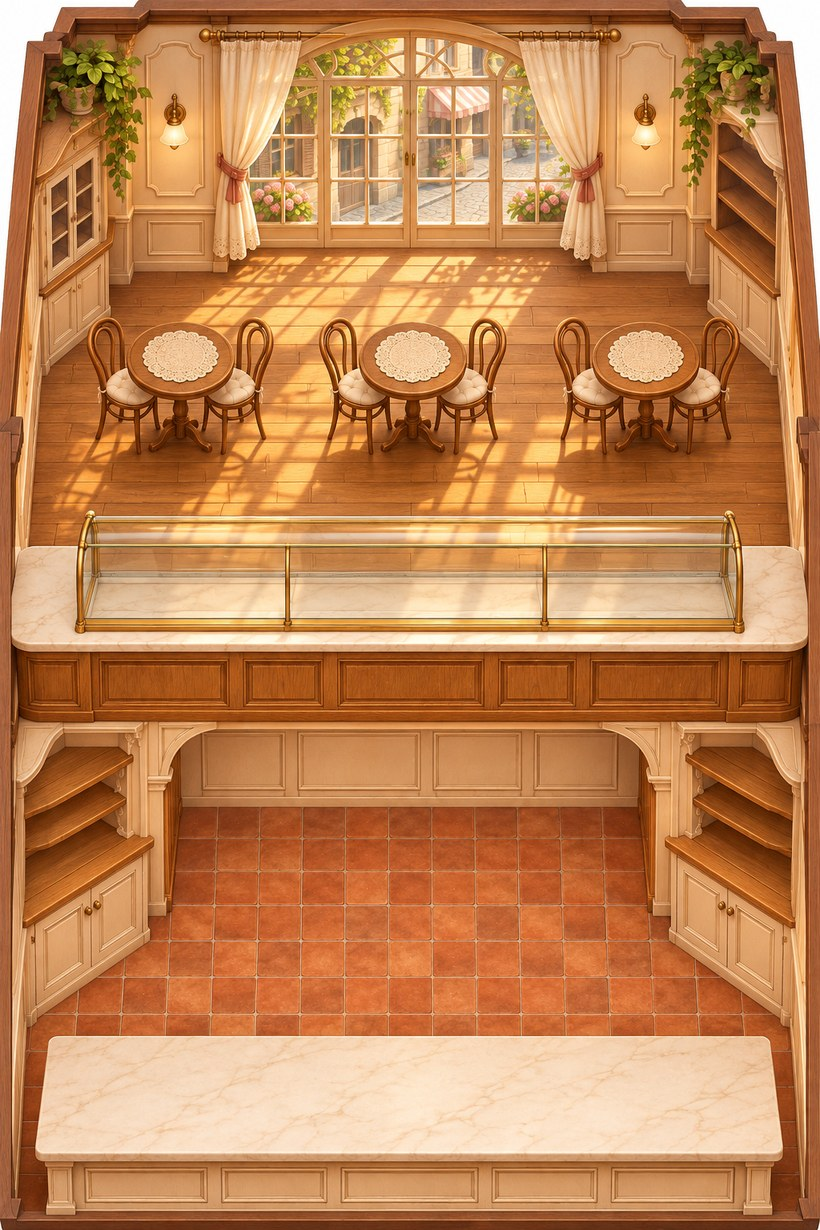
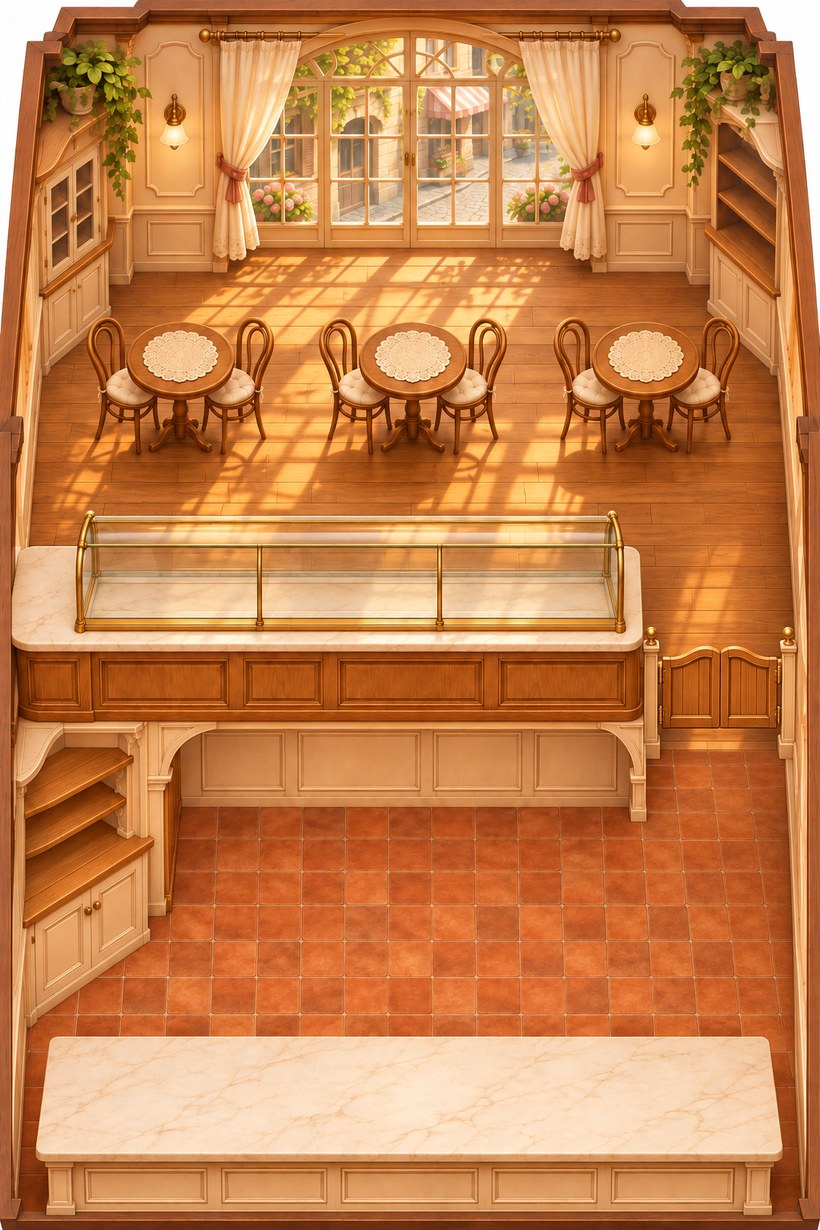
feat(patisserie-story): add wooden right-side counter swing-gate and multi-segment doorway pathfinding for Coco

diff --git a/games/patisserie-story/src/pages/shop.js b/games/patisserie-story/src/pages/shop.js
@@ -86,19 +86,23 @@ export function mountShopPage(root) {
   let handsSig = '';
   let pauseSig = '';
 
-  // 2.5D 可可地板走位状态（在陶砖过道与餐区/展示柜/大理石烤台间移动）
+  // 2.5D 可可多段寻路走位状态（跨区必须经由右侧柜台小门进出，绝不穿墙/穿玻璃柜！）
   let cocoPos = { x: 50, y: 69, facing: 1 };
   let cocoWalkTimer = null;
+  let cocoPathRunId = 0;
+
+  const GATE_SOUTH = { x: 87.5, y: 64 };
+  const GATE_NORTH = { x: 87.5, y: 40 };
 
   const COCO_WAYPOINTS = {
-    seat_0: { x: 24, y: 39 },
-    seat_1: { x: 50, y: 39 },
-    seat_2: { x: 76, y: 39 },
-    disp_0: { x: 25, y: 63 },
-    disp_1: { x: 50, y: 63 },
-    disp_2: { x: 75, y: 63 },
-    oven_1: { x: 26, y: 74 },
-    oven_2: { x: 74, y: 74 },
+    seat_0: { x: 24, y: 38 },
+    seat_1: { x: 50, y: 38 },
+    seat_2: { x: 74, y: 38 },
+    disp_0: { x: 21, y: 63 },
+    disp_1: { x: 44, y: 63 },
+    disp_2: { x: 67, y: 63 },
+    oven_1: { x: 24, y: 74 },
+    oven_2: { x: 76, y: 74 },
     batch:  { x: 50, y: 74 }
   };
 
@@ -119,34 +123,62 @@ export function mountShopPage(root) {
     const scene = root.querySelector('.kitchen-scene');
     if (!wp || !actor) return;
 
-    const prevX = cocoPos.x;
-    const prevY = cocoPos.y;
-    const dx = wp.x - prevX;
-    const dy = wp.y - prevY;
-    const dist = Math.hypot(dx, dy);
-    const moved = dist > 2;
-    if (Math.abs(dx) > 1.5) cocoPos.facing = dx < 0 ? -1 : 1;
-    cocoPos.x = wp.x;
-    cocoPos.y = wp.y;
+    // 取消上一段未走完的路径，从当前视觉坐标无缝起新路径
+    cocoPathRunId += 1;
+    const runId = cocoPathRunId;
+    clearTimeout(cocoWalkTimer);
 
-    const walkMs = moved ? Math.max(260, Math.min(620, Math.round(dist * 11))) : 0;
-    actor.style.transitionDuration = `${walkMs}ms`;
-    actor.style.left = `${wp.x}%`;
-    actor.style.top = `${wp.y}%`;
-    actor.classList.toggle('face-left', cocoPos.facing < 0);
+    const currDining = cocoPos.y < 52;
+    const destDining = wp.y < 52;
+    const queue = [];
 
-    if (moved) {
-      actor.classList.add('is-walking');
-      spawnStepBurst(scene, prevX, prevY + 3, '💨', 'dust');
-      clearTimeout(cocoWalkTimer);
-      cocoWalkTimer = setTimeout(() => {
+    if (!currDining && destDining) {
+      // 后厨 -> 餐区：先走到右侧门南口 -> 穿过右侧柜台门 -> 走到目标餐桌
+      queue.push(GATE_SOUTH, GATE_NORTH, wp);
+    } else if (currDining && !destDining) {
+      // 餐区 -> 后厨：先走到右侧门北口 -> 穿回右侧柜台门 -> 走到展示柜或烤炉
+      queue.push(GATE_NORTH, GATE_SOUTH, wp);
+    } else {
+      queue.push(wp);
+    }
+
+    function stepNext(idx) {
+      if (runId !== cocoPathRunId || destroyed) return;
+      if (idx >= queue.length) {
         actor.classList.remove('is-walking');
-      }, walkMs);
+        if (burstEmoji && scene) {
+          spawnStepBurst(scene, cocoPos.x, cocoPos.y - 5, burstEmoji, 'spark');
+        }
+        return;
+      }
+
+      const next = queue[idx];
+      const dx = next.x - cocoPos.x;
+      const dy = next.y - cocoPos.y;
+      const dist = Math.hypot(dx, dy);
+      if (dist < 2) {
+        stepNext(idx + 1);
+        return;
+      }
+
+      if (Math.abs(dx) > 1.2) cocoPos.facing = dx < 0 ? -1 : 1;
+      const prevX = cocoPos.x;
+      const prevY = cocoPos.y;
+      cocoPos.x = next.x;
+      cocoPos.y = next.y;
+
+      const segMs = Math.max(150, Math.min(460, Math.round(dist * 7.5)));
+      actor.style.transitionDuration = `${segMs}ms`;
+      actor.style.left = `${next.x}%`;
+      actor.style.top = `${next.y}%`;
+      actor.classList.toggle('face-left', cocoPos.facing < 0);
+      actor.classList.add('is-walking');
+      if (idx === 0) spawnStepBurst(scene, prevX, prevY + 3, '💨', 'dust');
+
+      cocoWalkTimer = setTimeout(() => stepNext(idx + 1), segMs);
     }
 
-    if (burstEmoji && scene) {
-      spawnStepBurst(scene, wp.x, wp.y - 5, burstEmoji, 'spark');
-    }
+    stepNext(0);
   }
 
   function pulseProp(selector) {
@@ -272,7 +304,7 @@ export function mountShopPage(root) {
 
     root.innerHTML = `
       <div class="kitchen-scene is-zoned-25d">
-        <img class="kitchen-scene-bg mode-fill" src="assets/images/kitchen/patisserie_25d_zones.jpg" alt="" />
+        <img class="kitchen-scene-bg mode-fill" src="assets/images/kitchen/patisserie_25d_zones.jpg?v=2" alt="" />
 
         <!-- 顶部悬浮半透明营收 HUD -->
         <div class="scene-hud">

diff --git a/games/patisserie-story/styles/shop.css b/games/patisserie-story/styles/shop.css
@@ -1865,18 +1865,18 @@
   border-radius: 999px;
 }
 
-/* 中腰：玻璃展示柜库存槽位（精确落入三格黄铜玻璃展示柜内） */
+/* 中腰：玻璃展示柜库存槽位（精确落入左侧三格黄铜玻璃展示柜内，右侧完整留出木栅进出小门） */
 .page-shop .zone-display-case {
   position: absolute;
   top: 41.5%;
-  left: 10%;
-  right: 10%;
+  left: 9%;
+  right: 23%;
   height: 11.5%;
   z-index: 15;
   display: flex;
   justify-content: space-around;
   align-items: center;
-  gap: 6px;
+  gap: 5px;
 }
 
 .page-shop .display-bay-btn {

diff --git a/games/patisserie-story/index.html b/games/patisserie-story/index.html
@@ -11,7 +11,7 @@
   <link rel="stylesheet" href="styles/map.css" />
   <link rel="stylesheet" href="styles/story.css?v=20261126" />
   <link rel="stylesheet" href="styles/minigame.css?v=20261126" />
-  <link rel="stylesheet" href="styles/shop.css?v=20261126h" />
+  <link rel="stylesheet" href="styles/shop.css?v=20261126i" />
   <link rel="stylesheet" href="styles/recipes.css" />
 </head>
 <body>
